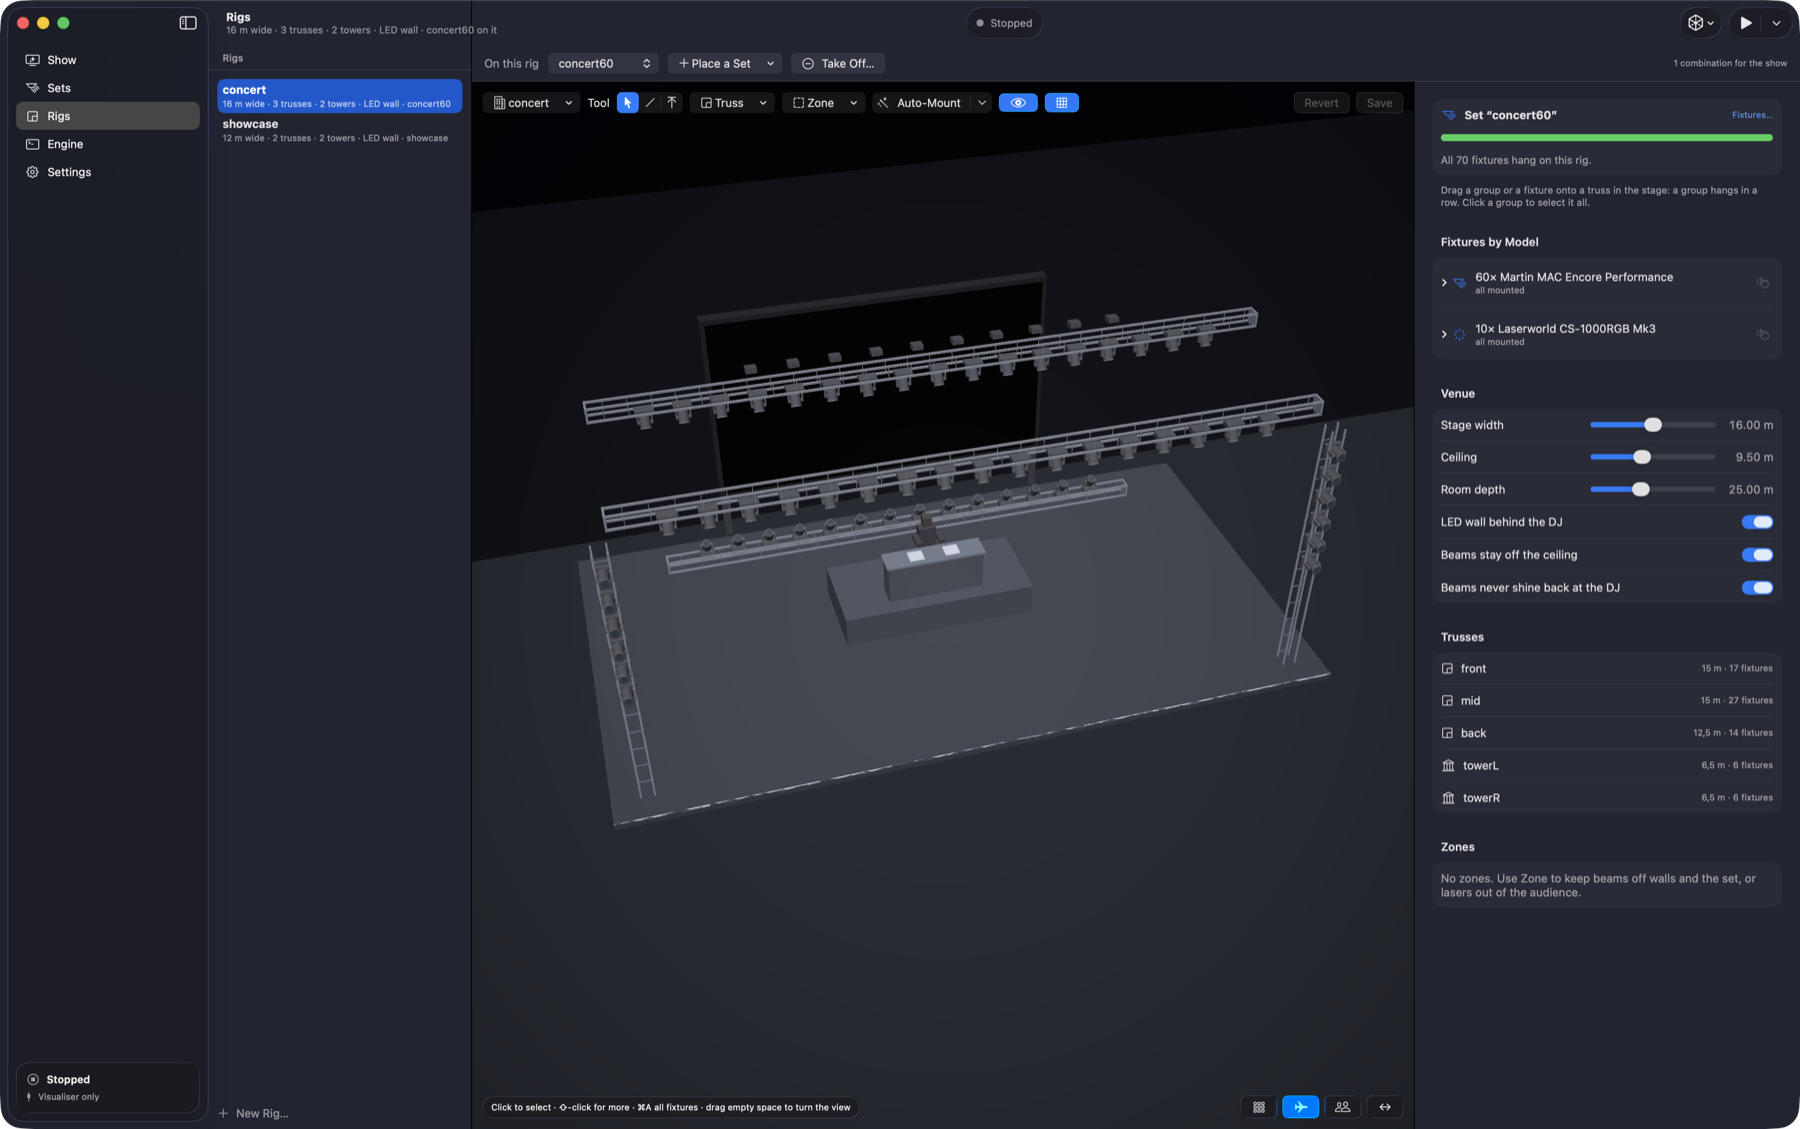
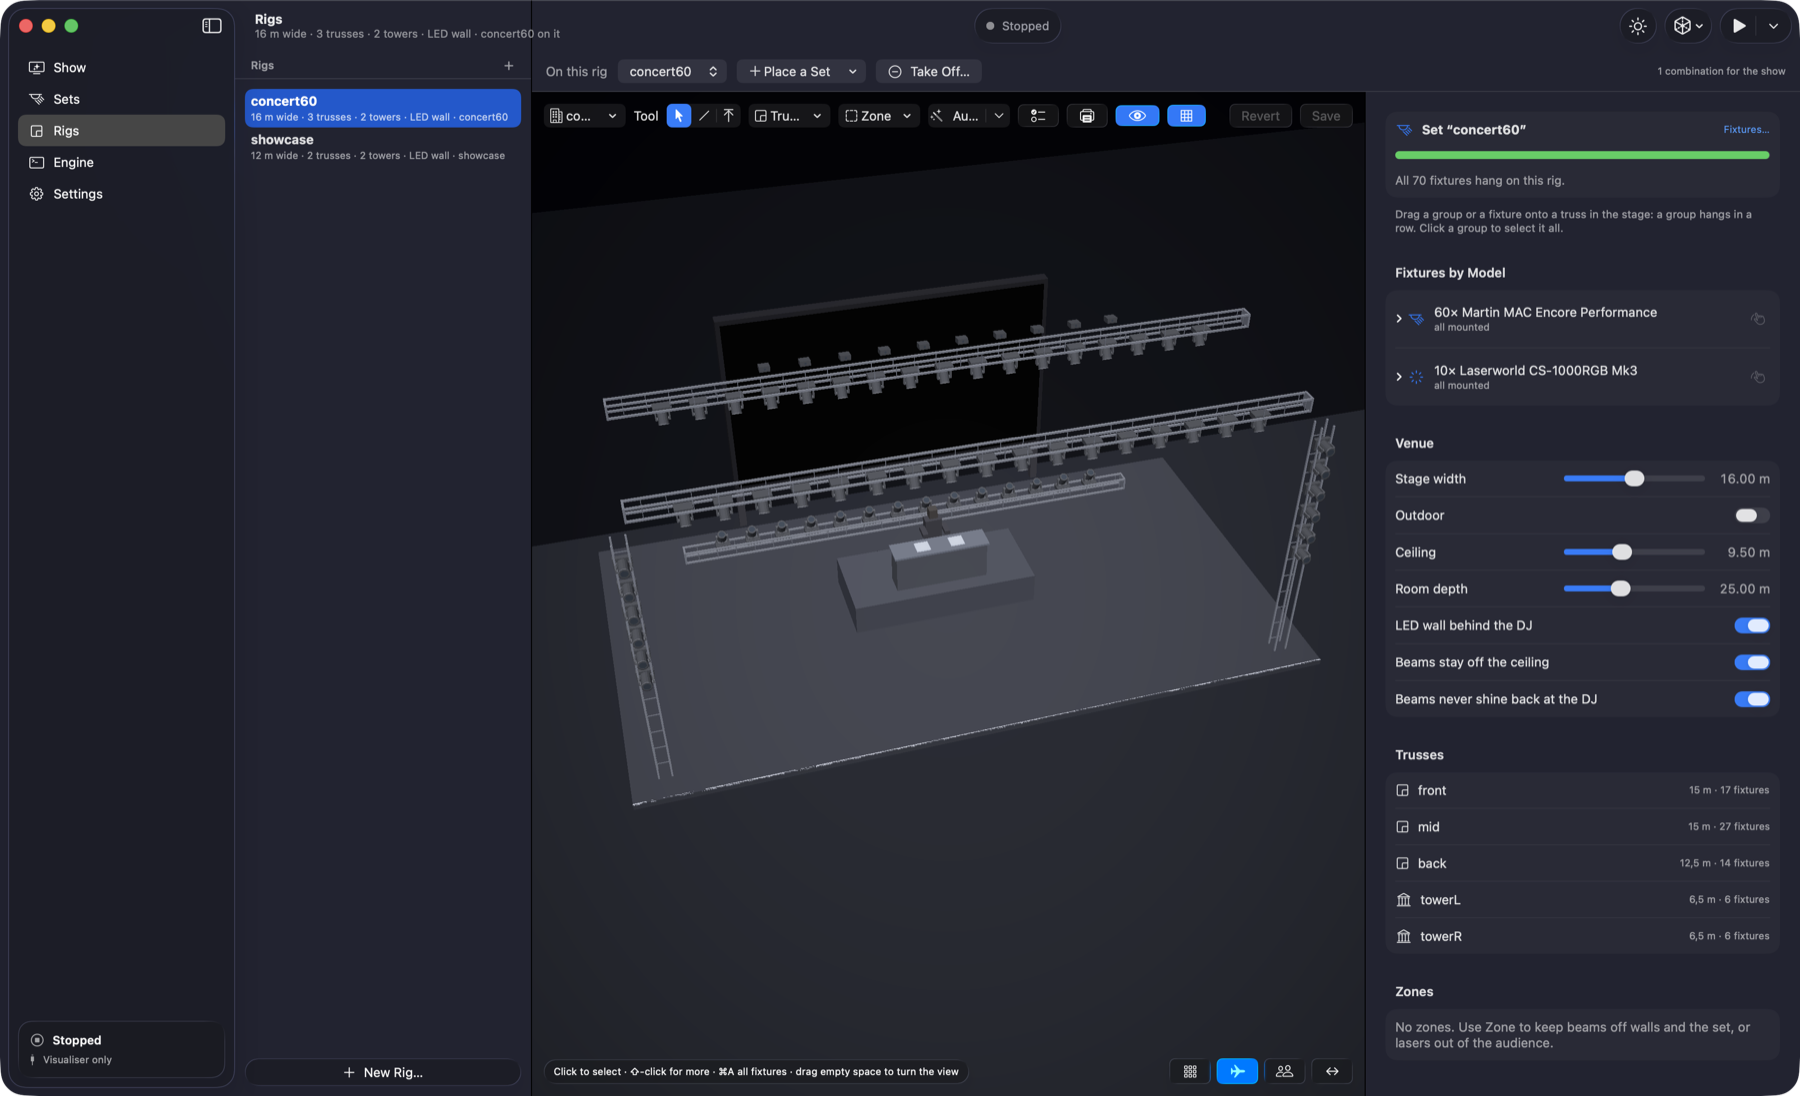
New screenshots: the drop counted in on the LED wall, from the side and the dance floor
The drop and the build-up from the side camera (the LED wall's 3…2…1 and
DROP!), the same drop from the crowd, and the rig editor, taken from a build
of this branch on the concert example with the AI director.

diff --git a/README.md b/README.md
@@ -21,9 +21,9 @@ from a gentle warm-up to the final party bangers, beat-exact, phrase by phrase.
 
 <br><br>
 
-<img src="docs/screenshots/show-drop.png" alt="Amadeus DMX on the drop: lasers, an LED wall and 60 moving heads on a concert stage, with the AI director's choices for this phrase on the right" width="100%">
+<img src="docs/screenshots/show-drop.png" alt="Amadeus DMX on the drop, seen from the side of the stage: 60 moving heads fire over the crowd, the lasers fan out and the LED wall reads DROP!, with the AI director's choices for this phrase on the right" width="100%">
 
-<sub>The drop, live in the app: 60 moving heads, 10 lasers and an LED wall. On the right, what the AI director chose for this phrase.</sub>
+<sub>The drop, live in the app: 60 moving heads, 10 lasers and an LED wall that counted it in. On the right, what the AI director chose for this phrase.</sub>
 
 </div>
 
@@ -129,11 +129,17 @@ out over Art-Net, sACN or a USB DMX interface.
 <table>
 <tr>
 <td width="50%" valign="top">
-<img src="docs/screenshots/show-buildup.png" alt="The build-up before the drop: warm beams and a wave across the moving heads">
-<p align="center"><sub>The build-up, one second before the drop</sub></p>
+<img src="docs/screenshots/show-buildup.png" alt="The build-up: warm beams sweep over the crowd while the LED wall counts down 3 to the drop">
+<p align="center"><sub>The build-up: the LED wall counts down to the drop</sub></p>
 </td>
 <td width="50%" valign="top">
-<img src="docs/screenshots/rig-editor.png" alt="The rig editor: a concert stage with three trusses and two towers, 70 fixtures mounted">
+<img src="docs/screenshots/show-crowd.png" alt="The drop from the dance floor: rows of moving heads and rainbow lasers overhead, the LED wall behind the DJ">
+<p align="center"><sub>The same drop from the dance floor</sub></p>
+</td>
+</tr>
+<tr>
+<td colspan="2" valign="top">
+<img src="docs/screenshots/rig-editor.png" alt="The rig editor: a concert stage with three trusses and two towers, all 70 fixtures mounted, with the venue settings on the right">
 <p align="center"><sub>The rig editor: your venue, with every fixture where it hangs</sub></p>
 </td>
 </tr>
